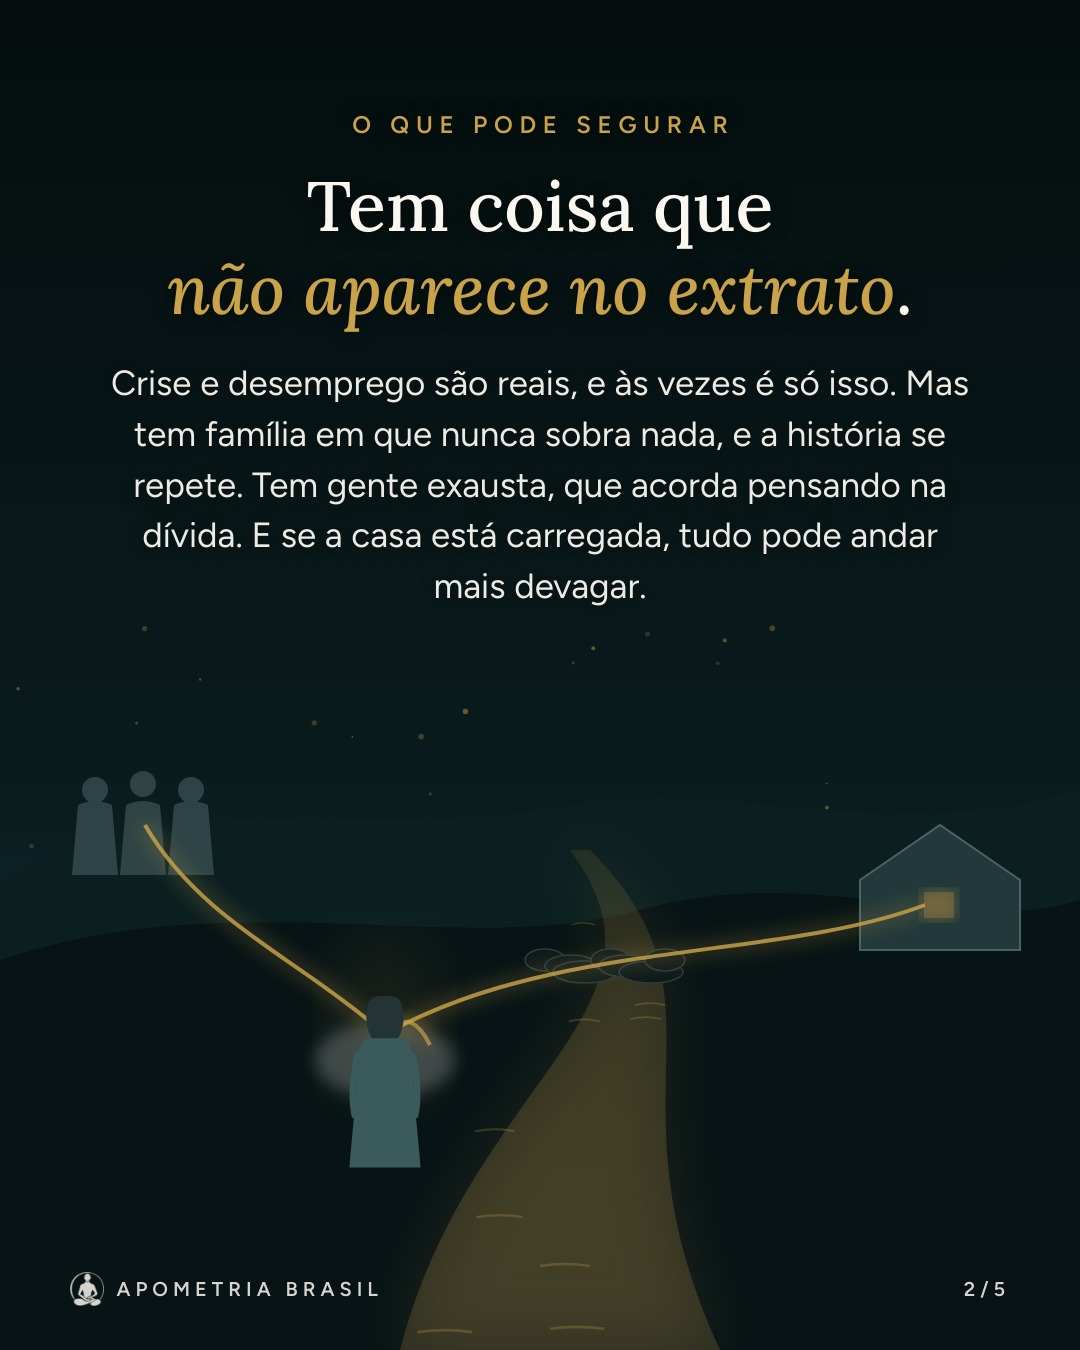
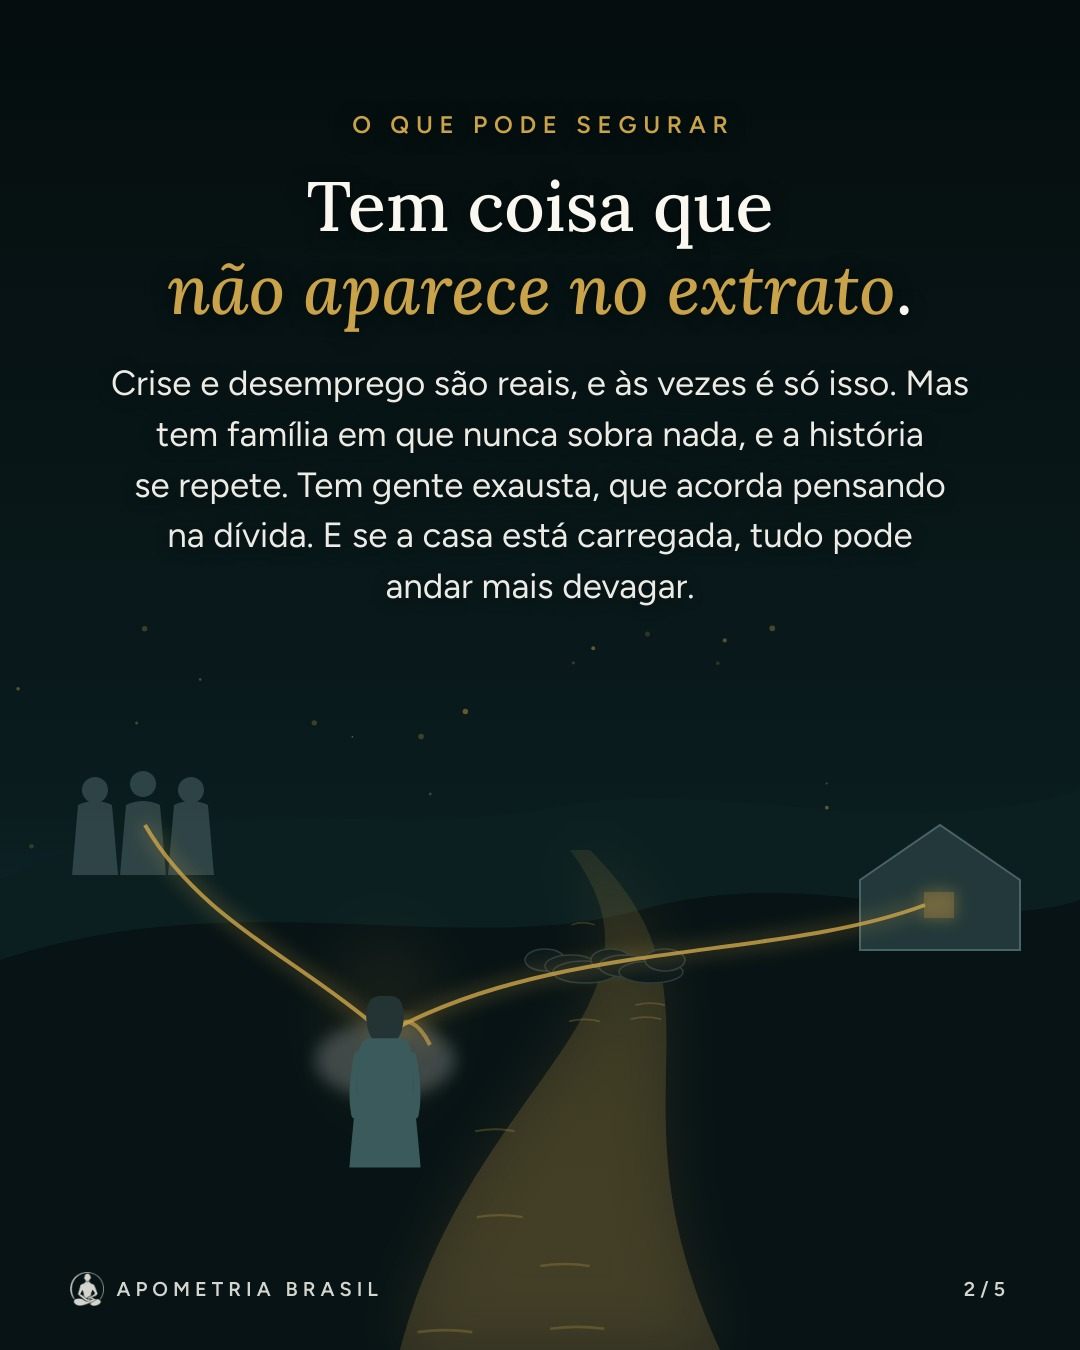
Prosperidade: lâminas finais (rodada 2 do Olho corrigida), legenda, hashtags e resumo
Claude-Session: https://claude.ai/code/session_01JEWNugGqZtfRNNpR6FEnd2

Changed region(s): [[0.1222, 0.3111, 0.8861, 0.4667]]

diff --git a/modelos/remotion/src/cenas/Rio.tsx b/modelos/remotion/src/cenas/Rio.tsx
@@ -39,8 +39,8 @@ export const Rio: React.FC<{cena: CenaRio}> = ({cena}) => {
   const defs = (
     <defs>
       <filter id="gl" x="-50%" y="-50%" width="200%" height="200%"><feGaussianBlur stdDeviation="10" result="b" /><feMerge><feMergeNode in="b" /><feMergeNode in="SourceGraphic" /></feMerge></filter>
-      <filter id="bl"><feGaussianBlur stdDeviation="30" /></filter>
-      <filter id="bl2"><feGaussianBlur stdDeviation="8" /></filter>
+      <filter id="bl" x="-150%" y="-150%" width="400%" height="400%"><feGaussianBlur stdDeviation="30" /></filter>
+      <filter id="bl2" x="-100%" y="-100%" width="300%" height="300%"><feGaussianBlur stdDeviation="8" /></filter>
       <linearGradient id="rioEsc" x1="0" y1="1" x2="0" y2="0"><stop offset="0" stopColor="#5E5132" stopOpacity="0.8" /><stop offset="1" stopColor="#C9A24A" stopOpacity="0.2" /></linearGradient>
       <linearGradient id="rioClaro" x1="0" y1="1" x2="0" y2="0"><stop offset="0" stopColor="#E8C877" /><stop offset="1" stopColor="#F6E7B8" stopOpacity="0.8" /></linearGradient>
       <radialGradient id="esfera"><stop offset="0" stopColor="#FFF8E6" /><stop offset="0.5" stopColor="#E9CF8C" stopOpacity="0.8" /><stop offset="1" stopColor="#C9A24A" stopOpacity="0" /></radialGradient>
@@ -92,7 +92,7 @@ export const Rio: React.FC<{cena: CenaRio}> = ({cena}) => {
         {defs}
         <linearGradient id="ceuPet" x1="0" y1="0" x2="0" y2="1"><stop offset="0" stopColor="#1C5F63" /><stop offset="0.45" stopColor="#14464A" /><stop offset="1" stopColor="#0A1C1E" /></linearGradient>
         <rect width={W} height={H} fill="url(#ceuPet)" />
-        <path d={`M 0 640 C 300 634 700 646 1080 638`} stroke="#C9A24A" strokeWidth={2} opacity={0.35} fill="none" />
+        <path d={`M 0 560 C 150 556 260 562 350 560 M 730 560 C 850 557 960 562 1080 559`} stroke="#C9A24A" strokeWidth={2} opacity={0.35} fill="none" />
         <Brilhos n={50} cor="#E9CF8C" area={[200, 60, 680, 380]} seed="n" max={2.2} op={0.5} />
         <ellipse cx={cx} cy={cy + 40} rx={170} ry={230} fill="#C9A24A" opacity={0.18} filter="url(#bl)" />
         {/* contorno de luz (aura) com fio dourado */}
@@ -102,7 +102,7 @@ export const Rio: React.FC<{cena: CenaRio}> = ({cena}) => {
         <rect x={0} y={cy + 150} width={W} height={150} fill="url(#nevoa)" />
         {/* nós: fio dourado embolado em 3 pontos (nuca e cintura presos; ombro se soltando) */}
         {[[cx + 10, cy - 214], [cx + 160, cy + 120]].map(([x, y], k) => (
-          <g key={k}>{[0, 1, 2, 3].map((j) => <ellipse key={j} cx={x} cy={y} rx={16} ry={7} transform={`rotate(${j * 45} ${x} ${y})`} fill="none" stroke="#5E4B22" strokeWidth={5} />)}<circle cx={x} cy={y} r={5} fill="#3A2E14" /></g>
+          <g key={k}>{[0, 1].map((j) => <ellipse key={j} cx={x} cy={y} rx={15} ry={6} transform={`rotate(${j * 70 + 20} ${x} ${y})`} fill="none" stroke="#6E5A2C" strokeWidth={4} />)}</g>
         ))}
         <g>{[0, 1].map((j) => <ellipse key={j} cx={cx - 158} cy={cy - 40} rx={15} ry={6} transform={`rotate(${j * 70} ${cx - 158} ${cy - 40})`} fill="none" stroke="#B8954A" strokeWidth={4} />)}</g>
         <path d={`M ${cx - 158} ${cy - 40} C ${cx - 190} ${cy - 80} ${cx - 200} ${cy - 130} ${cx - 210} ${cy - 175}`} stroke="#F2DFA6" strokeWidth={3} fill="none" filter="url(#gl)" />

diff --git a/modelos/remotion/src/CarrosselCena.tsx b/modelos/remotion/src/CarrosselCena.tsx
@@ -48,7 +48,7 @@ export const CarrosselCena: React.FC<PropsCarrosselCena> = ({pasta, identidade: 
     <div style={{textAlign: 'center', textShadow: sombra}}>
       <div style={{fontFamily: familia('rotulo'), fontWeight: 600, fontSize: 24, letterSpacing: '0.28em', paddingLeft: '0.28em', color: corDest, marginBottom: 26}}>{l.rotulo}</div>
       <Titulo txt={l.titulo} cor={corTexto} dest={corDest} size={i === 0 ? 82 : 70} />
-      <div style={{fontFamily: familia('texto'), fontWeight: 400, fontSize: 35, lineHeight: 1.45, color: corTexto, opacity: 0.95, marginTop: 28, textWrap: 'pretty'} as React.CSSProperties}>{l.texto}</div>
+      <div style={{fontFamily: familia('texto'), fontWeight: 400, fontSize: 35, lineHeight: 1.45, color: corTexto, opacity: 0.95, marginTop: 28, textWrap: 'pretty'} as React.CSSProperties}>{l.texto.replace(/ (\S+)$/, '\u00a0$1')}</div>
       {l.chamada && <div style={{fontFamily: familia('rotulo'), fontWeight: 600, fontSize: 28, letterSpacing: '0.04em', color: corDest, marginTop: 30, textWrap: 'balance'} as React.CSSProperties}>{l.chamada.split(/(\*[^*]+\*)/g).filter(Boolean).map((p, k) => p.startsWith('*') ? <span key={k} style={{letterSpacing: '0.12em'}}>{p.slice(1, -1)}</span> : <span key={k}>{p}</span>)}</div>}
     </div>
   );

diff --git a/producoes/2026-11-23-apometria-prosperidade/08-critica-olho.md b/producoes/2026-11-23-apometria-prosperidade/08-critica-olho.md
@@ -17,3 +17,19 @@ Data: 23/11/2026 · Imagens avaliadas: `final/lamina-1.jpg` a `final/lamina-5.jp
 **Observação geral para a responsável (não é ajuste de rodada):** o kit (`marca.md`, "Estética das imagens") diz "fotos reais, nunca desenho ou ilustração", e a pauta pediu estilo "cinematográfico, quase fotográfico". As cenas desta peça são ilustrações planas feitas em código, com figuras simples. Estão serenas, sem terror e na paleta do kit, mas é uma exceção à regra da marca, e quem decide se vale é a Andressa. Se for aprovada, convém registrar a exceção em `aprendizados.md`.
 
 **Veredito: AJUSTAR.**
+
+## Rodada 2
+
+Data: 23/11/2026 · Imagens refeitas `final/lamina-1.jpg` a `final/lamina-5.jpg`, abertas uma a uma. A questão "ilustração x foto real" ficou para a responsável e não conta como ajuste.
+
+**O que foi resolvido:** "história.", "devagar." e "FLUIR." deixaram de ficar sozinhas. Na lâmina 2, a família está sem capuz, translúcida e não assusta mais; os fios engrossados aparecem no celular; a casa tem contorno visível. Na lâmina 3, a aura agora é fechada e a base da figura se esfuma. Na lâmina 4, as janelas estão abertas com cortina e a assinatura tem o logo escurecido. Na lâmina 5, a faixa reta virou colina curva e o rio passa longe da assinatura. A série continua coerente, escuro → claro, sem nada de terror.
+
+| Lâmina | Situação | O que está errado | O que fazer | Quem corrige |
+|---|---|---|---|---|
+| 1 | AJUSTAR | O brilho em volta da silhueta, no terço de baixo à esquerda, está **cortado em retângulo**: aparece uma coluna mais clara de borda reta (mais ou menos de 30% a 43% da largura, da linha do morro até os pés da figura). Parece defeito de renderização. O resto está bom: texto equilibrado, mulher mais perto da margem. | Deixar o brilho redondo e difuso, sem borda: gradiente radial em área maior, ou tirar o corte (`overflow`/caixa do elemento) que recorta o desfoque. | Moldura |
+| 2 | AJUSTAR | O mesmo retângulo claro cortado aparece atrás da silhueta (em volta da névoa dos ombros, no terço de baixo à esquerda). O resto passou: família, fios e casa estão legíveis. | Mesma correção da lâmina 1 (é o mesmo componente da figura). | Moldura |
+| 3 | AJUSTAR | (a) A linha do horizonte desceu e agora fica **colada ao rótulo** "COMO A APOMETRIA VÊ", poucos pixels acima dele, no meio da lâmina: parece um sublinhado errado e aperta o rótulo. (b) "em casa." continua sobrando sozinha na última linha do texto, logo acima do rodapé. (c) Os dois nós de cima e da direita da aura viraram rosetas marrons com miolo, que parecem engrenagens ou parafusos presos no contorno. Só o nó da esquerda, perto da luz, lê como fio embolado. | (a) Subir a linha do horizonte para logo abaixo dos pés da figura, com pelo menos ~40 px de folga até o rótulo, ou apagá-la nas laterais. (b) Equilibrar as quebras (`text-wrap: balance` ou caixa um pouco mais estreita) para a última linha ter ao menos meia largura. (c) Desenhar os dois nós como o da esquerda: um pequeno emaranhado do próprio fio dourado, mais fosco. | (a)(b) Moldura · (c) Lente |
+| 4 | OK | Nada a corrigir. As janelas abertas com cortina conversam com o texto e a assinatura agora está completa e legível. | — | — |
+| 5 | OK | Nada a corrigir. A chamada está em duas frases equilibradas, a colina tem borda curva e a assinatura está em grama lisa, longe do rio. | — | — |
+
+**Veredito: AJUSTAR** (lâminas 1, 2 e 3; ajustes pequenos, a maioria de posição ou recorte). Pelos critérios, esta é a **2ª e última volta** do Olho: depois da correção, a peça vai para a responsável com estas observações e com a questão "ilustração x foto real".

diff --git a/producoes/2026-11-23-apometria-prosperidade/09-resumo.md b/producoes/2026-11-23-apometria-prosperidade/09-resumo.md
@@ -1,0 +1,15 @@
+# Resumo · Carrossel "Prosperidade" (5 lâminas)
+
+| Etapa | Resultado |
+|---|---|
+| Radar (vidIQ) | O que bomba é fórmula (oração, afirmação, ritual) e medo/culpa; ninguém explica as causas → brecha |
+| Sonda (vidIQ) | "sinto como se a vida financeira estivesse parada", "não sobra quase nada", "orçamentos não fecham" |
+| Termômetro + Bússola | Ângulo "por que a vida financeira parece parada" (8,86); fio visual: rio de luz parado → correndo |
+| Faísca + Lupa | Gancho "Fazendo de tudo e o dinheiro não anda?" (8,5) |
+| Roteiro | v1: Lupa 7,35 + veto Guardiã (promessa) · v2: Lupa 8,43 · **v3: Lupa 8,83 + Guardiã** |
+| Crivo | Comandos para IA de imagem aprovados (lâminas 2 e 3 corrigidas) |
+| Imagens | Kling/Gemini indisponíveis nesta sessão → **cenas ilustradas em código** (`modelos/remotion/src/cenas/Rio.tsx`) |
+| Modelo | Novo `CarrosselCena`: cena ocupando a lâmina inteira, texto no espaço vazio, letra escura nas lâminas claras |
+| Olho | Rodada 1: 5 ajustes · Rodada 2: 3 ajustes, corrigidos e conferidos pelo Maestro |
+
+**Decisão pendente da responsável:** o kit diz "fotos reais, nunca desenho". Estas cenas são ilustração. Se ela aprovar, registrar a exceção em `aprendizados.md`. Os comandos para gerar a versão com IA (Kling/Gemini) estão prontos em `07-prompts-gemini.md`; o modelo aceita trocar `cena` por `imagem` sem refazer o resto.
